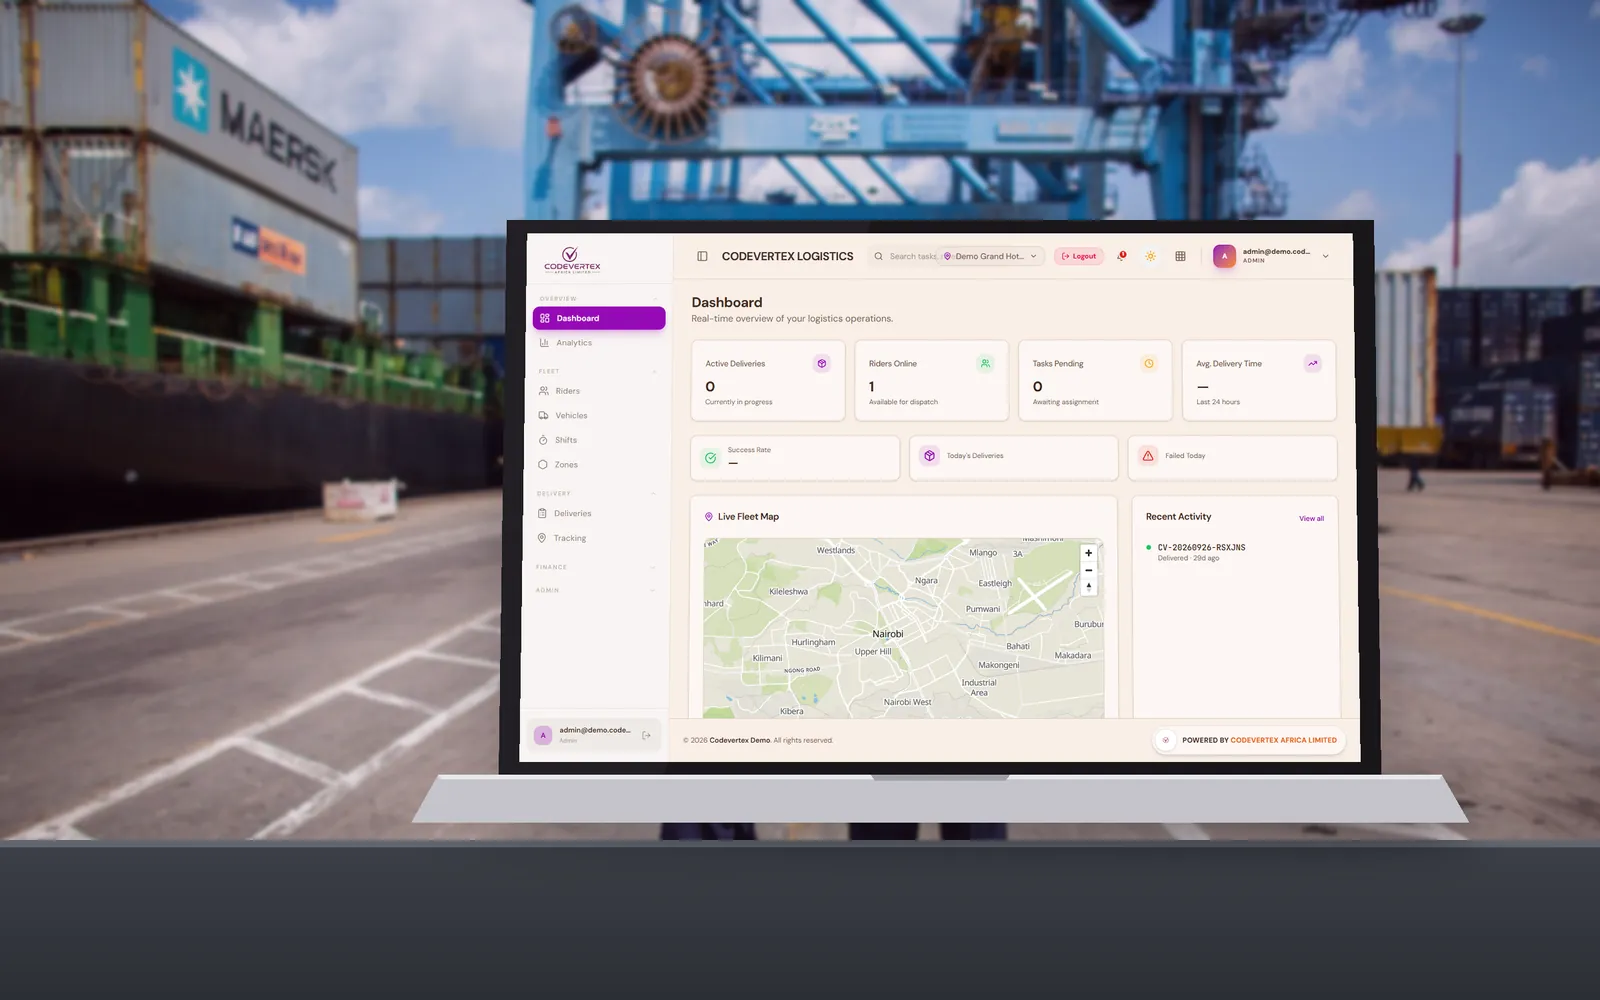
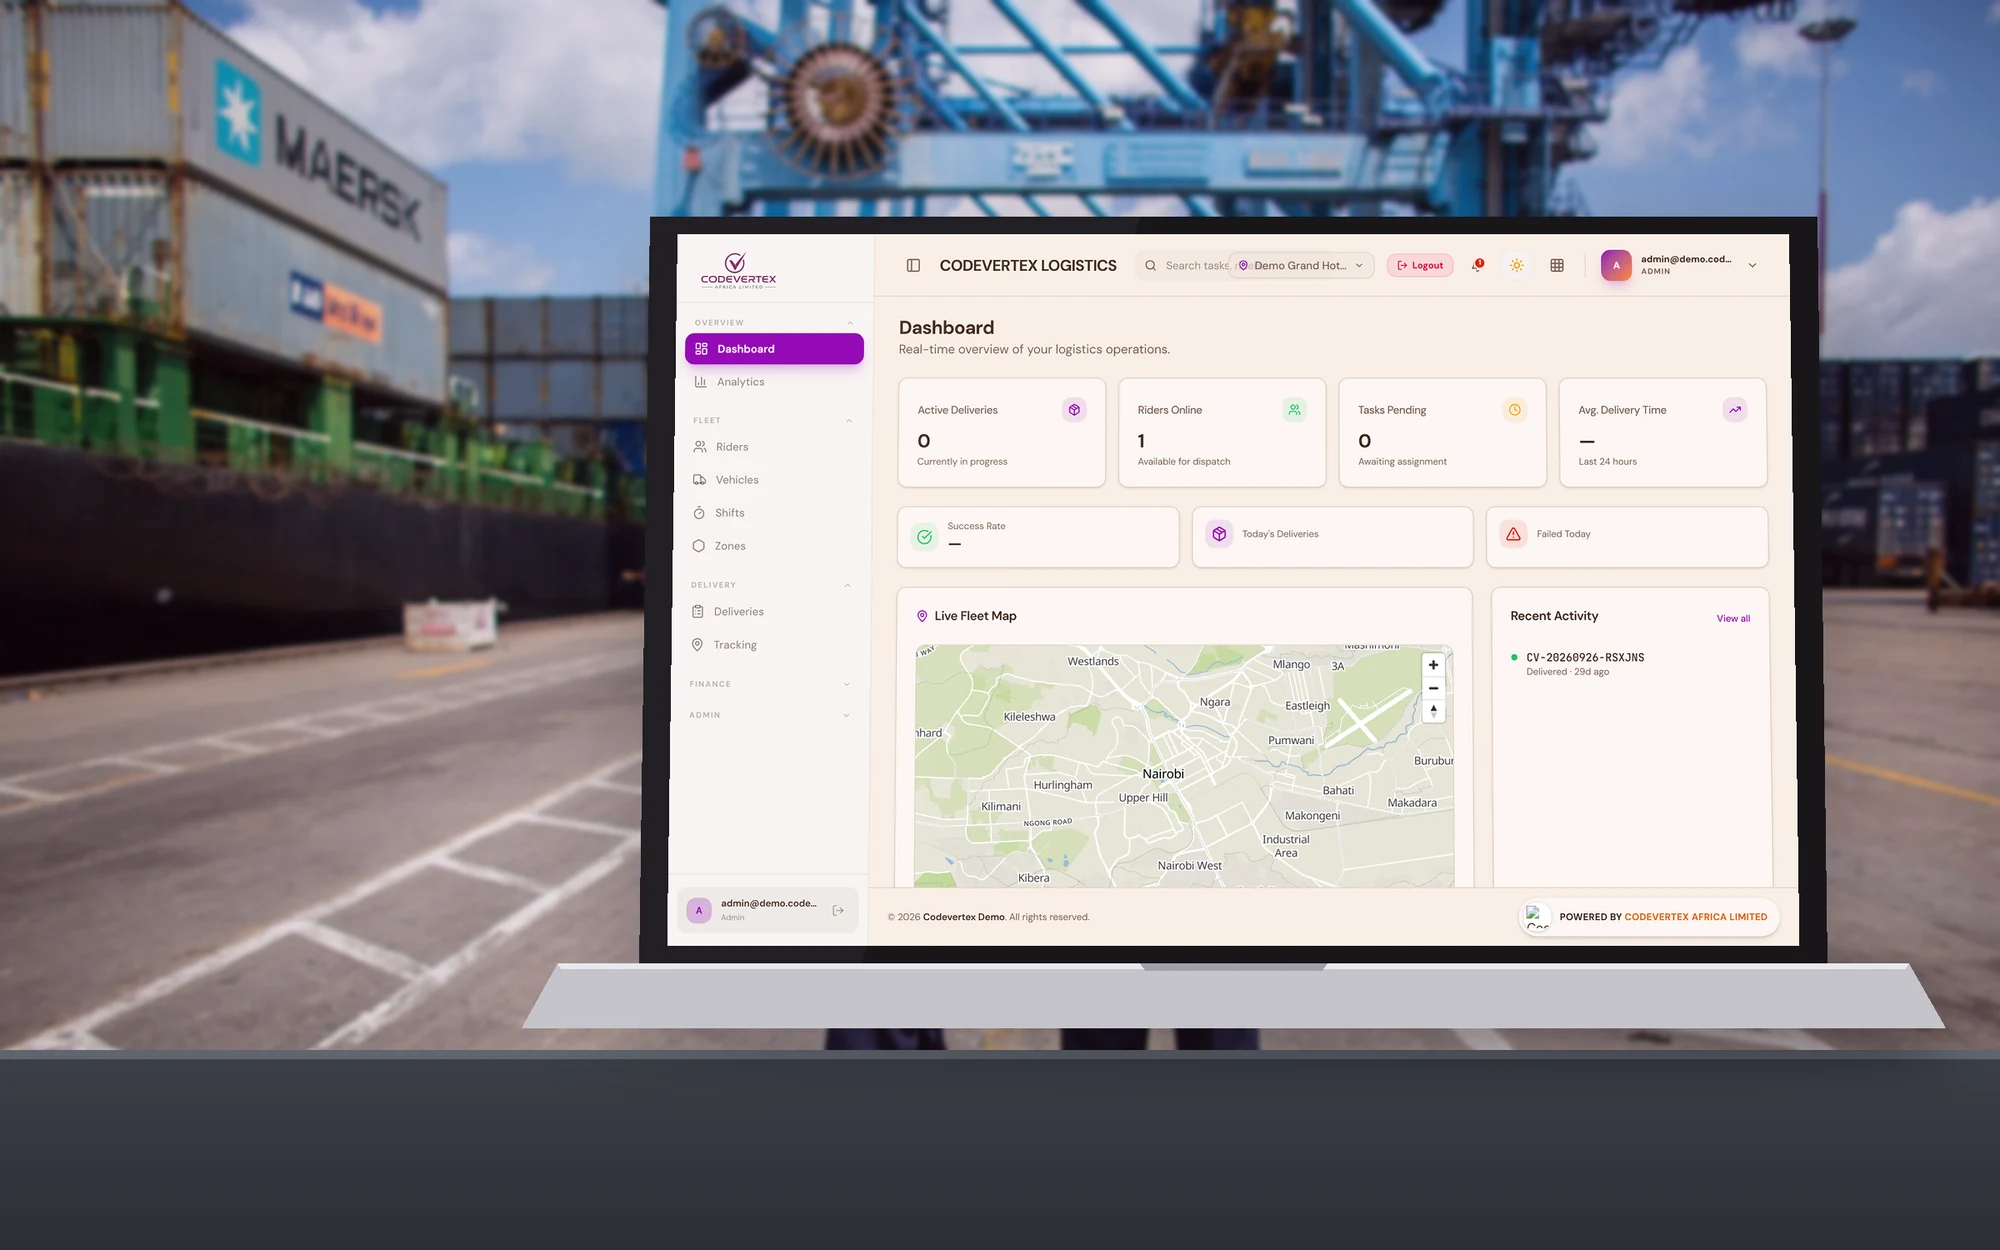
feat(website): sharper product scenes, closer devices and the real POS screen
- App screens captured at 2x and downscaled with Lanczos before the
  perspective warp, which removes the aliased, noisy text
- Laptops, tablets and phones are larger in the frame, and scenes are
  exported at 2000 x 1250
- next/image serves product scenes at quality 90 (images.qualities)
- The POS terminal shows the team's capture of the POS sell screen
- Treasury and developer photos cropped closer to the laptop screens

Docs: sprint 9 records the redesign and its open items, the plan's
sprint table now matches docs/sprints, and ux-ui.md has the image
quality, renaming and credit rules.

Changed region(s): [[0.25, 0.155, 0.9688, 0.868], [0.5625, 0.31, 0.7188, 0.465], [0.7188, 0.434, 0.75, 0.465]]

diff --git a/src/app/services/page.tsx b/src/app/services/page.tsx
@@ -41,7 +41,7 @@ function CoreProduct({ product, pricing, flip }: { product: PowerSuiteProduct; p
           <div className={`lg:col-span-7 ${flip ? 'lg:order-2' : ''}`}>
             <div className="glass rounded-4xl p-2 shadow-lift">
               <div className="relative aspect-[16/10] overflow-hidden rounded-3xl bg-night">
-                <Image src={product.screenshot.src} alt={product.screenshot.alt} fill sizes="(min-width: 1024px) 55vw, 100vw" className="object-cover" />
+                <Image src={product.screenshot.src} alt={product.screenshot.alt} fill quality={90} sizes="(min-width: 1024px) 55vw, 100vw" className="object-cover" />
                 {product.screenshot.credit && <PhotoCredit credit={product.screenshot.credit} />}
               </div>
             </div>
@@ -90,7 +90,7 @@ export default async function ServicesPage() {
         aside={
           <div className="glass rounded-4xl p-2 shadow-lift">
             <div className="relative aspect-[16/10] overflow-hidden rounded-3xl">
-              <Image src="/images/products/marketplace-scene.webp" alt="A Codevertex marketplace of retail and hospitality stores on a laptop, with M-Pesa checkout on a phone" fill priority sizes="(min-width: 1024px) 40vw, 100vw" className="object-cover" />
+              <Image src="/images/products/marketplace-scene.webp" quality={90} alt="A Codevertex marketplace of retail and hospitality stores on a laptop, with M-Pesa checkout on a phone" fill priority sizes="(min-width: 1024px) 40vw, 100vw" className="object-cover" />
             </div>
           </div>
         }

diff --git a/src/app/integrations/page.tsx b/src/app/integrations/page.tsx
@@ -125,7 +125,7 @@ function PhotoGrid({ photos }: { photos: Shot[] }) {
       <div className={`grid gap-3 ${photos.length === 1 ? 'grid-cols-1' : 'grid-cols-2'}`}>
         {photos.map((p, i) => (
           <figure key={p.src} className={`group relative overflow-hidden rounded-3xl bg-muted shadow-soft ${wide(i) ? 'col-span-2 aspect-video' : 'aspect-4/3'}`}>
-            <Image src={p.src} alt={p.alt} fill sizes={wide(i) ? '(min-width: 1024px) 45vw, 100vw' : '(min-width: 1024px) 25vw, 50vw'} className="object-cover transition-transform duration-700 group-hover:scale-[1.04]" />
+            <Image src={p.src} alt={p.alt} fill quality={90} sizes={wide(i) ? '(min-width: 1024px) 45vw, 100vw' : '(min-width: 1024px) 25vw, 50vw'} className="object-cover transition-transform duration-700 group-hover:scale-[1.04]" />
             <figcaption className="glass absolute left-2 bottom-2 right-2 sm:right-auto rounded-full px-3 py-1 text-xs font-medium text-foreground">{p.caption}</figcaption>
             {p.credit && <PhotoCredit credit={p.credit} className="inset-x-2 top-2" />}
           </figure>

diff --git a/src/components/home/ProductShowcase.tsx b/src/components/home/ProductShowcase.tsx
@@ -54,7 +54,7 @@ export function ProductShowcase({ products }: { products: ShowcaseProduct[] }) {
       <div id="showcase-panel" role="tabpanel" aria-labelledby={`tab-${p.id}`} className="lg:col-span-8">
         <div className="glass rounded-4xl p-2 shadow-lift">
           <div className="relative aspect-[16/10] overflow-hidden rounded-3xl bg-night">
-            <Image key={p.id} src={p.screenshot.src} alt={p.screenshot.alt} fill sizes="(min-width: 1024px) 60vw, 100vw" className="object-cover animate-fade-in" />
+            <Image key={p.id} src={p.screenshot.src} alt={p.screenshot.alt} fill quality={90} sizes="(min-width: 1024px) 60vw, 100vw" className="object-cover animate-fade-in" />
             <a href={p.url} target="_blank" rel="noreferrer" className="glass absolute left-3 bottom-3 rounded-full px-3 py-1 text-xs font-medium text-foreground hover:bg-white">
               {p.url.replace('https://', '')}
             </a>

diff --git a/src/components/site/ServiceCards.tsx b/src/components/site/ServiceCards.tsx
@@ -24,7 +24,7 @@ export function ServiceCards({ services = CLIENT_SERVICES, detailed = false }: {
           >
             <div className="relative aspect-[16/10] overflow-hidden bg-mist">
               {s.photo && (
-                <Image src={s.photo.src} alt={s.photo.alt} fill sizes="(min-width: 1024px) 33vw, (min-width: 640px) 50vw, 100vw" className="object-cover transition-transform duration-700 group-hover:scale-[1.04]" />
+                <Image src={s.photo.src} alt={s.photo.alt} fill quality={90} sizes="(min-width: 1024px) 33vw, (min-width: 640px) 50vw, 100vw" className="object-cover transition-transform duration-700 group-hover:scale-[1.04]" />
               )}
               <span className="glass absolute left-3 top-3 flex h-10 w-10 items-center justify-center rounded-xl">
                 <s.icon className="h-5 w-5 text-primary" aria-hidden />

diff --git a/src/components/home/HeroSection.tsx b/src/components/home/HeroSection.tsx
@@ -105,7 +105,7 @@ export function HeroSection({ liveBusinesses, tenants }: { liveBusinesses: numbe
           {/* Cards sit over the trees and below the faces, never on them. */}
           <div className="glass absolute -left-4 sm:-left-8 -bottom-16 w-[58%] rounded-2xl p-2 hidden sm:block animate-fade-in">
             <div className="relative aspect-[16/10] overflow-hidden rounded-xl">
-              <Image src="/images/products/marketplace-scene.webp" alt="The Codevertex marketplace on a laptop, with M-Pesa checkout on a phone" fill sizes="30vw" className="object-cover" />
+              <Image src="/images/products/marketplace-scene.webp" quality={90} alt="The Codevertex marketplace on a laptop, with M-Pesa checkout on a phone" fill sizes="30vw" className="object-cover" />
             </div>
           </div>
 

diff --git a/next.config.ts b/next.config.ts
@@ -37,6 +37,8 @@ const nextConfig: NextConfig = {
   experimental: {},
 
   images: {
+    // 90 is used for product scenes, where small on-screen text must stay legible.
+    qualities: [75, 90],
     remotePatterns: [
       { protocol: 'https', hostname: '**.codevertexafrica.com' },
     ],

diff --git a/docs/sprints/sprint-9.md b/docs/sprints/sprint-9.md
@@ -1,0 +1,41 @@
+# Sprint 9: website redesign, real imagery and the enquiry notices
+
+**Status:** Done, with open items (Oct 2026)
+
+## Delivered
+- [x] Redesign on the Codevertex Africa Limited brand: plum and gold tokens, Bricolage Grotesque and
+  Figtree, soft glass surfaces, no gradients or AI-style decoration. Tagline "Architecting Africa's
+  Digital Excellence". Digitika first in the navigation (`2a2277a`, `0318134`).
+- [x] Every page and form audited: copy rewritten in plain language and inclusive of Kenya and
+  East Africa, facts checked against the services, the old paybill removed, docs links point to
+  docs.codevertexafrica.com user guides.
+- [x] Fake SVG mockups deleted. Product and service images are real screens or branded app
+  mockups on devices, over real Kenyan photos; people shown are African (`docs/image-credits.md`).
+- [x] Contact form: phone required and normalised, the publish result recorded (`noticeSentAt`),
+  resend from `/admin/contacts`. notifications-api sends the WhatsApp reply
+  (`codevertex_enquiry_received_v1_btn`, synced to Meta) and emails the team
+  (`platform/website_enquiry`).
+- [x] Projects seeded with photos: ALEHU ICDL training, Rubana weighbridges (Tanzania), Migori
+  library, Rongo CCTV, Kanyonyo ANPR, MUCISA hackathon.
+- [x] Calls and WhatsApp use +254 743 793 901 everywhere (`838a14b`).
+- [x] Scenes rebuilt for the capstone products: ERP with self-service payslip, Treasury approval
+  phone, marketplace storefront and checkout with real product photos, MarketFlow and Vera,
+  Notifications flows, security audit, web and mobile development photos (`838a14b`).
+- [x] Hero cards moved off the team's faces; updated scenes renamed so caches cannot serve the old
+  pictures (`d61f0a4`).
+- [x] Photo credits moved behind an info button that opens on hover, focus or tap (`beb628f`).
+- [x] Image quality pass: app screens captured at 2x, screens downscaled with Lanczos before the
+  perspective warp, devices brought closer, scenes exported at 2000 x 1250 and served at quality
+  90 (`next.config.ts` `images.qualities`). The POS scene shows the team's POS terminal screen.
+
+## Open items
+- Dates for the ALEHU, Rubana and Rongo projects (seeded as drafts dated 2026-09-29).
+- A non-client TruLoad demo login, so the TruLoad scene can show the dashboard instead of the
+  sign-in page.
+- The Notifications app header reads "Platfrom Admin" (typo in the app, visible in the
+  notifications scene). Fix belongs to notifications-ui.
+- The cybersecurity and mobile development course covers keep their file names because the paths
+  live in each course's database row; browsers and Cloudflare may show the old covers until their
+  caches expire.
+- Scene build scripts are kept outside the repo; rebuilding needs the inputs listed in
+  `docs/image-credits.md`.

diff --git a/docs/plan.md b/docs/plan.md
@@ -21,18 +21,20 @@
 
 ## Sprint Summary
 
+Each row matches a file in `docs/sprints/`.
+
 | Sprint | Theme | Status |
 |--------|-------|--------|
-| Sprint 1 | Foundation — Next.js 16, layout, brand system | ✅ Done |
-| Sprint 2 | Digitika Academy — Course catalog & enrollment | ✅ Done |
-| Sprint 3 | Content pages — Services, About, Blog, Careers | ✅ Done |
-| Sprint 4 | AI Chatbot (Vera) & Lead capture | ✅ Done |
-| Sprint 5 | Homepage redesign — Modern, professional feel | 🔄 In Progress |
-| Sprint 6 | Digitika enrichment — Graduates, testimonials, Code-Starter | 🔄 In Progress |
-| Sprint 7 | DevOps — Dockerfile, K8s, CI/CD | 🔄 In Progress |
-| Sprint 8 | SEO, Performance & PWA | Planned |
-| Sprint 9 | Blog CMS integration | Planned |
-| Sprint 10 | Corporate portal & SSO integration | Planned |
+| Sprint 1 | Foundation: Next.js 16, layout, brand system | Done |
+| Sprint 2 | Digitika Academy: course catalog and enrollment | Done |
+| Sprint 3 | Content pages and home sections | Done |
+| Sprint 4 | Vera AI chatbot and lead capture | Done |
+| Sprint 5 | Homepage redesign and Code-Starter integration | Superseded by sprint 9 |
+| Sprint 6 | DevOps, K8s deployment and CI/CD | In progress |
+| Sprint 7 | Kids and Teens relaunch, admin and website sync, parent portal | Done |
+| Sprint 8 | Custom payment plans, student and parent accounts, manual deposits | Done |
+| Sprint 9 | Website redesign, real imagery and the enquiry notices | Done, open items listed |
+| Next | SEO, performance and PWA; blog CMS; corporate portal | Planned |
 
 ---
 

diff --git a/docs/ux-ui.md b/docs/ux-ui.md
@@ -57,9 +57,17 @@ Dark mode redefines the same tokens under `.dark`.
 
 ## Images
 
-- Real photos only. No illustrations, fake dashboards or AI-generated people. Product images are
-  real screens from the demo tenant placed on devices over real Kenyan backdrops (see
-  `docs/image-credits.md`); where people appear they are African.
+- Real photos only. No illustrations or AI-generated people. Product images are real screens from
+  the demo tenant, or branded mockups that copy the real app chrome where the demo cannot show a
+  screen yet, placed on devices over real Kenyan backdrops (see `docs/image-credits.md`); where
+  people appear they are African.
+- Scenes must stay legible: capture screens at 2x, export scenes at 2000 x 1250 WebP (quality
+  about 88, photo-heavy scenes about 78), and render them with `quality={90}` on `next/image`.
+  Keep devices large in the frame and faces clear of floating cards.
+- When an image's content changes, give it a new file name instead of overwriting it, so browser,
+  CDN and `next/image` caches cannot keep serving the old picture.
+- Licence credits sit behind the info button (`components/site/PhotoCredit.tsx`), never on top of
+  the photo.
 - Wording is inclusive of the whole region: "a Kenyan company working across East Africa", not
   "a Kisumu company". Kisumu appears only where it is a fact (the office address).
 - Documentation links go to the public guides on docs.codevertexafrica.com (`docsUrl()` in

diff --git a/docs/image-credits.md b/docs/image-credits.md
@@ -25,8 +25,10 @@ EXIF, including GPS. Crops remove number plates, burned-in timestamps and the ol
 
 Two kinds of screen go onto the devices:
 
-- Real screens captured from the codevertex-demo tenant: POS, Inventory, Logistics, Treasury, the
-  ERP reports page and Notifications monitoring.
+- Real screens captured from the codevertex-demo tenant at 2x (2880 x 1800): Inventory, Logistics,
+  Treasury and the TruLoad sign-in, plus the ERP reports page and Notifications monitoring
+  captured by the team. The POS terminal shows the team's capture of the POS sell screen
+  (`public/images/photos/pos-terminal.png`, the scene's input, not used on any page).
 - Branded mockups built in HTML with sample data, for screens the demo tenant cannot show yet: the
   MarketFlow sequence map, the Vera chat, the ERP self-service phone, the Notifications delivery
   flows, the marketplace storefront and checkout, the Treasury approval phone, the security audit
